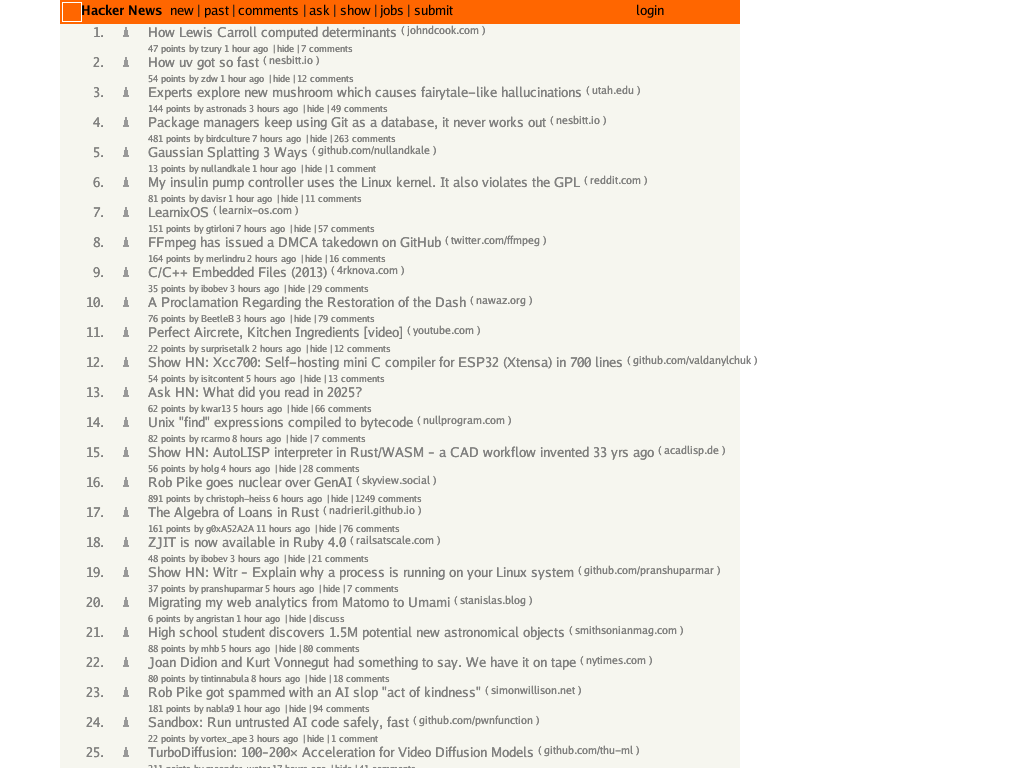
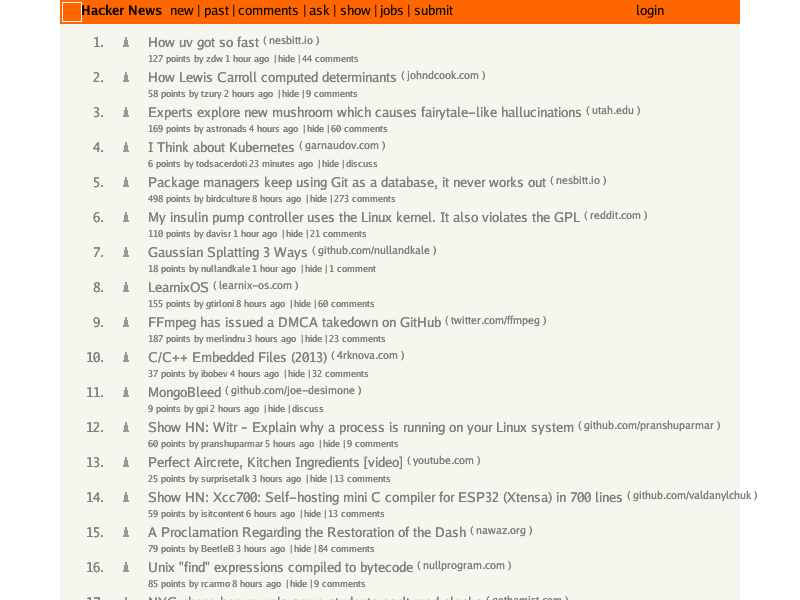
Fix HN rendering: body bgcolor, spacer rows, and link colors

Changed region(s): [[0.0312, 0.0, 0.9375, 1.0], [0.75, 0.33, 0.8125, 0.39]]

diff --git a/render/render.go b/render/render.go
@@ -478,12 +478,62 @@ func (c *Canvas) SavePNG(filename string) error {
 // Render renders a layout tree to a canvas.
 func Render(root *layout.LayoutBox, width, height int) *Canvas {
 	canvas := NewCanvas(width, height)
-	// Default white background
-	canvas.Clear(color.RGBA{255, 255, 255, 255})
+	
+	// CSS 2.1 §14.2: The background of the root element becomes the canvas background.
+	// First try to find the body's background, then fall back to root's background.
+	canvasBg := findCanvasBackground(root)
+	canvas.Clear(canvasBg)
 
 	renderLayoutBox(canvas, root)
 
 	return canvas
+}
+
+// findCanvasBackground finds the background color that should be used for the canvas.
+// CSS 2.1 §14.2: If the root element (html) has no background, the body's background
+// is used for the canvas background.
+func findCanvasBackground(root *layout.LayoutBox) color.RGBA {
+	defaultBg := color.RGBA{255, 255, 255, 255} // Default white
+
+	if root == nil || root.StyledNode == nil {
+		return defaultBg
+	}
+
+	// First check root element (html) for background
+	if bg := extractBackgroundColor(root.StyledNode.Styles); bg != defaultBg {
+		return bg
+	}
+
+	// If root has no background, look for body element
+	for _, child := range root.Children {
+		if child.StyledNode != nil && child.StyledNode.Node != nil &&
+			child.StyledNode.Node.Data == "body" {
+			if bg := extractBackgroundColor(child.StyledNode.Styles); bg != defaultBg {
+				return bg
+			}
+		}
+	}
+
+	return defaultBg
+}
+
+// extractBackgroundColor extracts a background color from styles.
+func extractBackgroundColor(styles map[string]string) color.RGBA {
+	defaultBg := color.RGBA{255, 255, 255, 255}
+	
+	bg := styles["background-color"]
+	if bg == "" {
+		bg = styles["background"]
+	}
+	
+	if bg != "" && bg != "transparent" && bg != "none" && !strings.Contains(bg, "url(") {
+		parsed := parseColor(bg)
+		if parsed != (color.RGBA{0, 0, 0, 0}) {
+			return parsed
+		}
+	}
+	
+	return defaultBg
 }
 
 // renderLayoutBox renders a single layout box and its children.

diff --git a/layout/layout.go b/layout/layout.go
@@ -887,7 +887,14 @@ func (box *LayoutBox) layoutWithColumnWidths(containingBlock Dimensions, columnW
 		box.Dimensions.Margin.Top + box.Dimensions.Border.Top + box.Dimensions.Padding.Top
 	box.Dimensions.Content.Width = containingBlock.Content.Width
 
+	// Handle explicit height for empty rows (e.g., spacer rows)
+	// CSS 2.1 §17.5.3: Table row height can be explicitly set
 	if len(box.Children) == 0 {
+		if height := styles["height"]; height != "" {
+			if h := parseLength(height, 0); h >= 0 {
+				box.Dimensions.Content.Height = h
+			}
+		}
 		return
 	}
 
@@ -960,7 +967,14 @@ func (box *LayoutBox) layoutWithColumns(containingBlock Dimensions, numColumns i
 		box.Dimensions.Margin.Top + box.Dimensions.Border.Top + box.Dimensions.Padding.Top
 	box.Dimensions.Content.Width = containingBlock.Content.Width
 
+	// Handle explicit height for empty rows (e.g., spacer rows)
+	// CSS 2.1 §17.5.3: Table row height can be explicitly set
 	if len(box.Children) == 0 || numColumns == 0 {
+		if height := styles["height"]; height != "" {
+			if h := parseLength(height, 0); h >= 0 {
+				box.Dimensions.Content.Height = h
+			}
+		}
 		return
 	}
 

diff --git a/MILESTONES.md b/MILESTONES.md
@@ -454,15 +454,16 @@ The browser can now load Hacker News from the network and render content with pr
   - [ ] Line-height property
   - [ ] Proper inline box model
 
-- [ ] **Link Rendering**
-  - [ ] `<a>` element styling
+- [x] **Link Rendering** ✅ COMPLETE
+  - [x] `<a>` element styling (pseudo-class stripped, selector applies to element)
   - [x] Text decoration (underline) ✅ COMPLETE
-  - [ ] Color for links (needs selector support for elements)
+  - [x] Color for links (a:link selector support)
 
 - [ ] **Table Support**
   - [x] `<table>`, `<tr>`, `<td>`, `<th>` elements
   - [x] Basic table layout algorithm (auto layout)
   - [x] Colspan attribute support
+  - [x] Empty row height support (spacer rows with explicit height)
   - [ ] Auto table layout algorithm (full implementation with min/max widths)
   - [ ] Table spanning (rowspan)
   - [ ] Table captions and headers
@@ -492,6 +493,9 @@ The browser successfully loads and renders Hacker News from the network with exc
 - Text supports variable font sizes with bold/italic/underline styles
 - HTML alignment attributes (`align`, `valign`, `<center>`) work correctly
 - **Inline style attributes** (`style="color: red"`) now supported with highest specificity
+- **Body/HTML bgcolor** attribute now properly fills the canvas background (CSS 2.1 §14.2)
+- **Empty table rows** with explicit height (spacer rows) now render correctly
+- **Link colors** now properly applied via `a:link` selector support
 
 Minor visual differences remain due to missing CSS properties (line-height, font-family).
 
